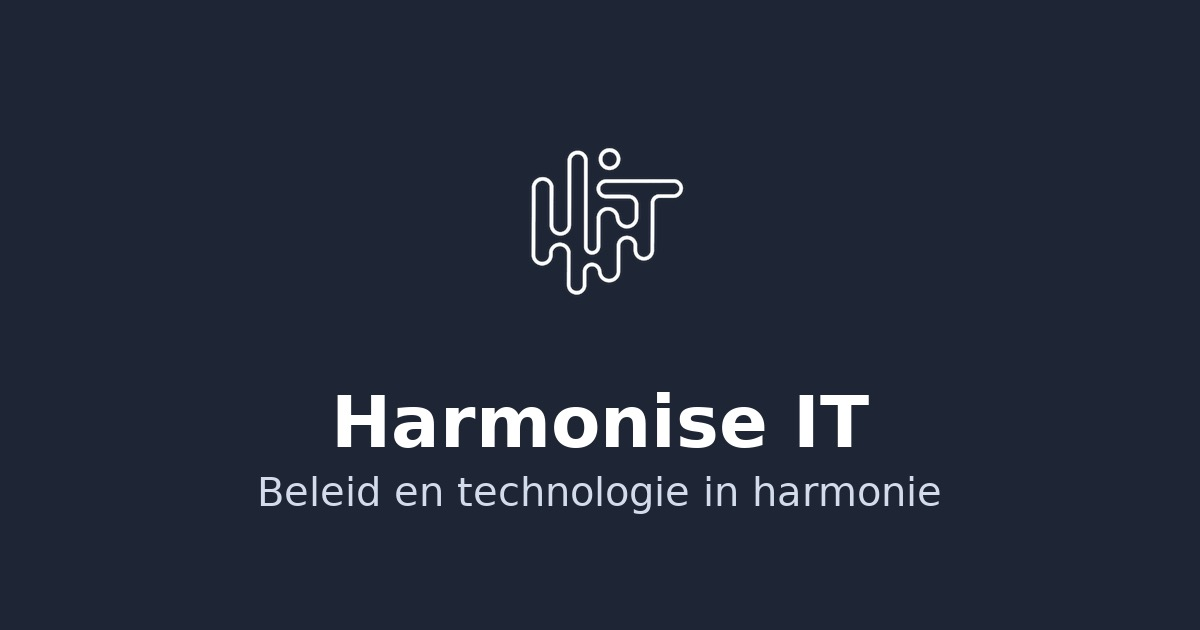
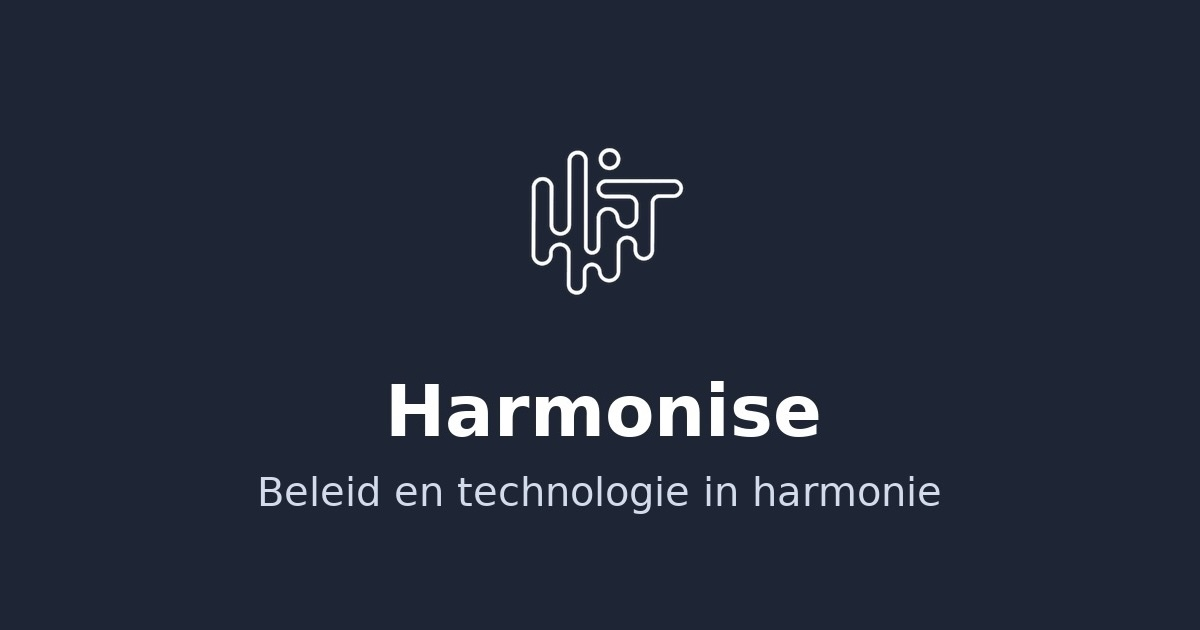
Updated OG Image

Changed region(s): [[0.2775, 0.6032, 0.74, 0.7238]]

diff --git a/README.md b/README.md
@@ -1,3 +1,3 @@
-# Harmonise IT Website.
+# Harmonise Website.
 
 https://harmonise.nl
